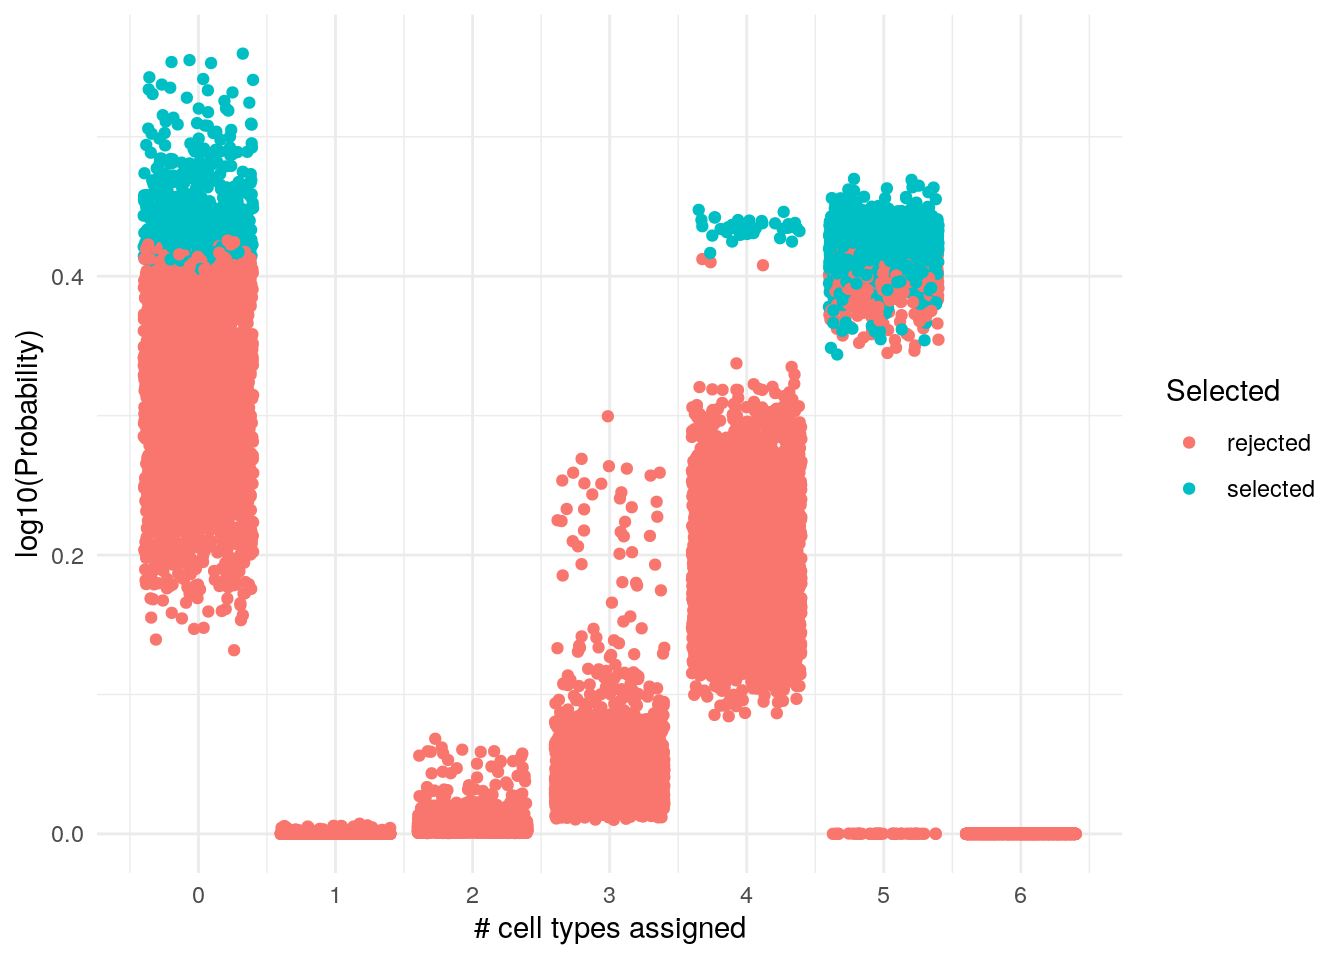
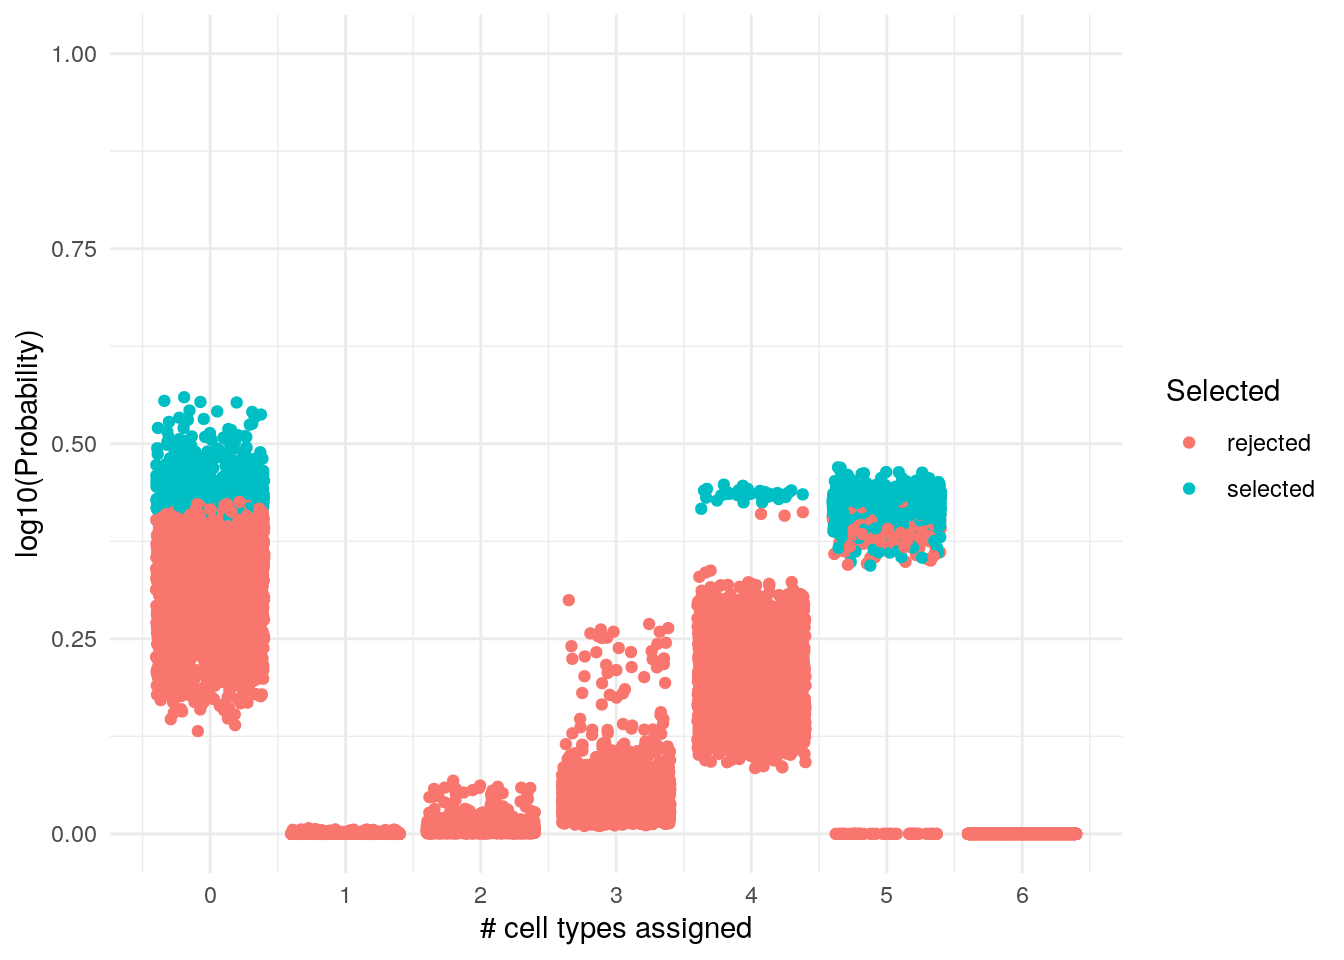
Update page

diff --git a/docs/AUCell.html b/docs/AUCell.html
@@ -11,7 +11,7 @@
 
 
 
-<meta name="date" content="2019-10-09" />
+<meta name="date" content="2019-10-11" />
 
 <title>Example of using BaseSet in the scRNAseq</title>
 
@@ -298,7 +298,7 @@ $(document).ready(function () {
 
 
 <h1 class="title toc-ignore">Example of using BaseSet in the scRNAseq</h1>
-<h4 class="date">09 oct 2019</h4>
+<h4 class="date">11 oct 2019</h4>
 
 </div>
 
@@ -421,6 +421,7 @@ es %&gt;%
   geom_jitter(aes(size, probability)) +
   labs(x = &quot;# cell types assigned&quot;, y = &quot;Probability&quot;, title = ) +
   scale_x_continuous(breaks = c(0, 1, 2, 3, 4, 5, 6)) +
+  scale_y_continuous(limits = c(0, 1)) +
   theme_minimal()</code></pre>
 <p><img src="AUCell_files/figure-html/ggplot2-1.png" width="672" /></p>
 <p>We can see that many don’t have any assigned cell and some have a</p>
@@ -434,6 +435,7 @@ selected_sizes %&gt;%
   geom_jitter(aes(size, probability, col = S)) +
   labs(x = &quot;# cell types assigned&quot;, y = &quot;log10(Probability)&quot;, col = &quot;Selected&quot;) +
   scale_x_continuous(breaks = c(0, 1, 2, 3, 4, 5, 6)) +
+  scale_y_continuous(limits = c(0, 1)) +
   theme_minimal()</code></pre>
 <p><img src="AUCell_files/figure-html/unnamed-chunk-2-1.png" width="672" /></p>
 <p>We can see that this way were are the selected number of cell types and their probability. The range of selection of the size is pretty much on the top. We can find them easily:</p>
@@ -497,30 +499,82 @@ cell0 &lt;- comp_assign(es, 0)</code></pre>
 <pre class="r"><code>tcA &lt;- table(unlist(cellsAssigned))
 missing &lt;- colnames(AUC)[!colnames(AUC) %in% names(tcA) &amp; !colnames(AUC) %in% cell0]</code></pre>
 <p>And there is still 164 cells without assigned pathway because they fell off the threshold.</p>
+<p>If we assigned the cell type to the one with higher AUC we would get the following:</p>
+<pre class="r"><code>TS %&gt;% 
+  group_by(elements) %&gt;% 
+  mutate(Selected = if_else(fuzzy == max(fuzzy), TRUE, FALSE)) %&gt;% 
+  ungroup() %&gt;% 
+  ggplot() +
+  geom_jitter(aes(sets, fuzzy, col = Selected)) +
+  theme_minimal() +
+  scale_y_continuous(limits = c(0, 1)) +
+  labs(x = &quot;Cell types&quot;, y = &quot;AUC&quot;, title = &quot;Selected cell types&quot;)</code></pre>
+<p><img src="AUCell_files/figure-html/assigned_max-1.png" width="672" /></p>
+<p>Now we can check it with how are really assigned</p>
 </div>
 <div id="aucells-assigned-cells" class="section level1">
 <h1>AUCell’s assigned cells</h1>
+<p>We can check the threshold used and see the score</p>
+<pre class="r"><code>thres &lt;- getThresholdSelected(cells_assignment)
+TS_thres &lt;- TS %&gt;% 
+  mutate(Selected = case_when(
+    sets == &quot;Astrocyte_Cahoy&quot; &amp; fuzzy &gt;= thres[&quot;Astrocyte_Cahoy&quot;] ~ TRUE,
+    sets == &quot;Neuron_Cahoy&quot; &amp; fuzzy &gt;= thres[&quot;Neuron_Cahoy&quot;] ~ TRUE,
+    sets == &quot;Oligodendrocyte_Cahoy&quot; &amp; fuzzy &gt;= thres[&quot;Oligodendrocyte_Cahoy&quot;] ~ TRUE,
+    sets == &quot;Astrocyte_Lein&quot; &amp; fuzzy &gt;= thres[&quot;Astrocyte_Lein&quot;] ~ TRUE,
+    sets == &quot;Neuron_Lein&quot; &amp; fuzzy &gt;= thres[&quot;Neuron_Lein&quot;] ~ TRUE,
+    sets == &quot;Microglia_lavin&quot; &amp; fuzzy &gt;= thres[&quot;Microglia_lavin&quot;] ~ TRUE,
+    TRUE ~ FALSE
+  ))
+relations(TS_thres) %&gt;% 
+  ggplot() +
+  geom_jitter(aes(sets, fuzzy, col = Selected)) +
+  theme_minimal() +
+  scale_y_continuous(limits = c(0, 1)) +
+  labs(x = &quot;Cell types&quot;, y = &quot;AUC&quot;, title = &quot;Selected cell types&quot;)</code></pre>
+<p><img src="AUCell_files/figure-html/thres-1.png" width="672" /></p>
 <p>From the assigned cells we can also analyze them:</p>
-<pre class="r"><code>TS2 &lt;- tidySet(cellsAssigned) %&gt;% 
-  add_elements(colnames(AUC)) # To have all the missing cells
-nElements(TS2) # The original number of cells
+<pre class="r"><code>nElements(TS_thres) # The original number of cells
 ## [1] 3005
-es2 &lt;- element_size(TS2)
-es2 %&gt;%
-  count(size, sort = TRUE)
-## # A tibble: 5 x 2
-##    size     n
-##   &lt;dbl&gt; &lt;int&gt;
-## 1     2  1883
-## 2     1   794
-## 3     0   200
-## 4     3   103
-## 5     4    25</code></pre>
-<p>Using the automatically assigned cell types bye AUCell we can see that they cross the thresholds for several cells too.</p>
-<p>This might be explained by the comment at the end of the vignette:</p>
+TS2 &lt;- TS_thres %&gt;% 
+  activate(&quot;relations&quot;) %&gt;% 
+  filter(Selected)  # To have all the missing cells
+nRelations(TS2) # The selected cells
+## [1] 4969
+
+# Cells assigned to a number of cell types 
+TS2 %&gt;% 
+  relations() %&gt;% 
+  group_by(elements) %&gt;% 
+  count(sort = TRUE) %&gt;% 
+  ungroup() %&gt;% 
+  count(n, sort = TRUE) %&gt;% 
+  rename(&quot;cells&quot; = &quot;nn&quot;, &quot;cell types&quot; = &quot;n&quot;)
+## # A tibble: 4 x 2
+##   `cell types` cells
+##          &lt;int&gt; &lt;int&gt;
+## 1            2  1883
+## 2            1   794
+## 3            3   103
+## 4            4    25</code></pre>
+<p>Using the automatically assigned cell types bye AUCell we can see that they cross the thresholds for several cells too. Most cells have two cell types and some even 4.</p>
+<p>This is partially explained by the comment at the end of the vignette:</p>
 <blockquote>
 <p>According to other publications that have used this dataset to evaluate new methods, a relevant group of cells marked as oligodendrocytes are likely doublets (i.e. two cells, for example a mix of an oligodendrocyte + another cell type).</p>
 </blockquote>
+<p>But it wouldn’t explain why there are some cells that have 3 or 4 cell types.</p>
+<p>We can check if this can be expected even after filtering some probabilities</p>
+<pre class="r"><code>TS2 %&gt;% 
+  droplevels(elements = TRUE) %&gt;% # Remove cells that are not assigned
+  element_size() %&gt;% # Probability of having these cells types
+  group_by(elements) %&gt;% 
+  filter(size == max(size)) %&gt;% # Probability of only having these cell types 
+  ggplot() +
+  geom_abline(intercept = 0.5, slope = 0, col = &quot;orange&quot;, alpha = 0.5) +
+  geom_jitter(aes(size, probability)) +
+  theme_minimal()</code></pre>
+<p><img src="AUCell_files/figure-html/assigned_size_probability-1.png" width="672" /></p>
+<p>In all cases we can’t even assume that this is better than tossing a coin!</p>
 </div>
 <div id="sesioninfo" class="section level1 unnumbered">
 <h1>SesionInfo</h1>
@@ -713,17 +767,6 @@ es2 %&gt;%
 ## [2] /usr/local/lib/R/site-library
 ## [3] /usr/lib/R/site-library
 ## [4] /usr/lib/R/library</code></pre>
-</div>
-<div id="assigning-cells" class="section level1">
-<h1>Assigning cells</h1>
-<p>Maybe now the question you might have is how would I assign each cell to each cell type.</p>
-<p>Firstly I wouldn’t have any problem with assigning the one that AUCell would suggest if</p>
-<ul>
-<li>it were the one with the highest value and</li>
-<li>the probability for said cell to have just one cell type would be the highest.</li>
-</ul>
-<p>Otherwise, the assignment is mostly incorrect as is done with an arbitrary threshold and without considering all the information available.</p>
-<p>In this case with just 6 cell types the assignment is mostly as an example but with hundreds or thousands of cells the problem becomes more apparent</p>
 </div>
 
 
